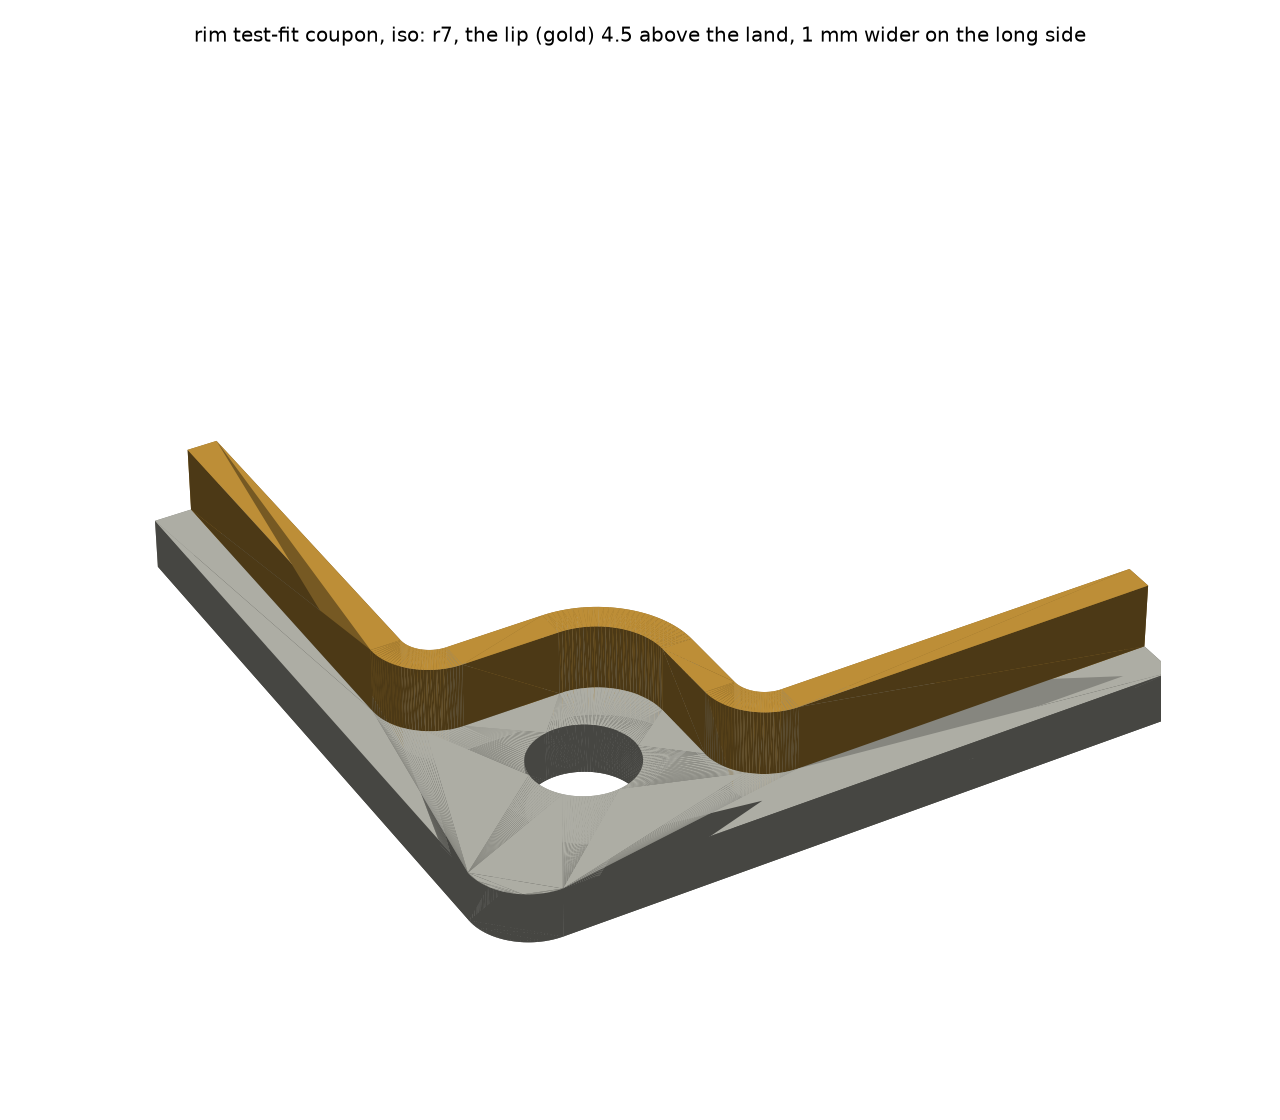
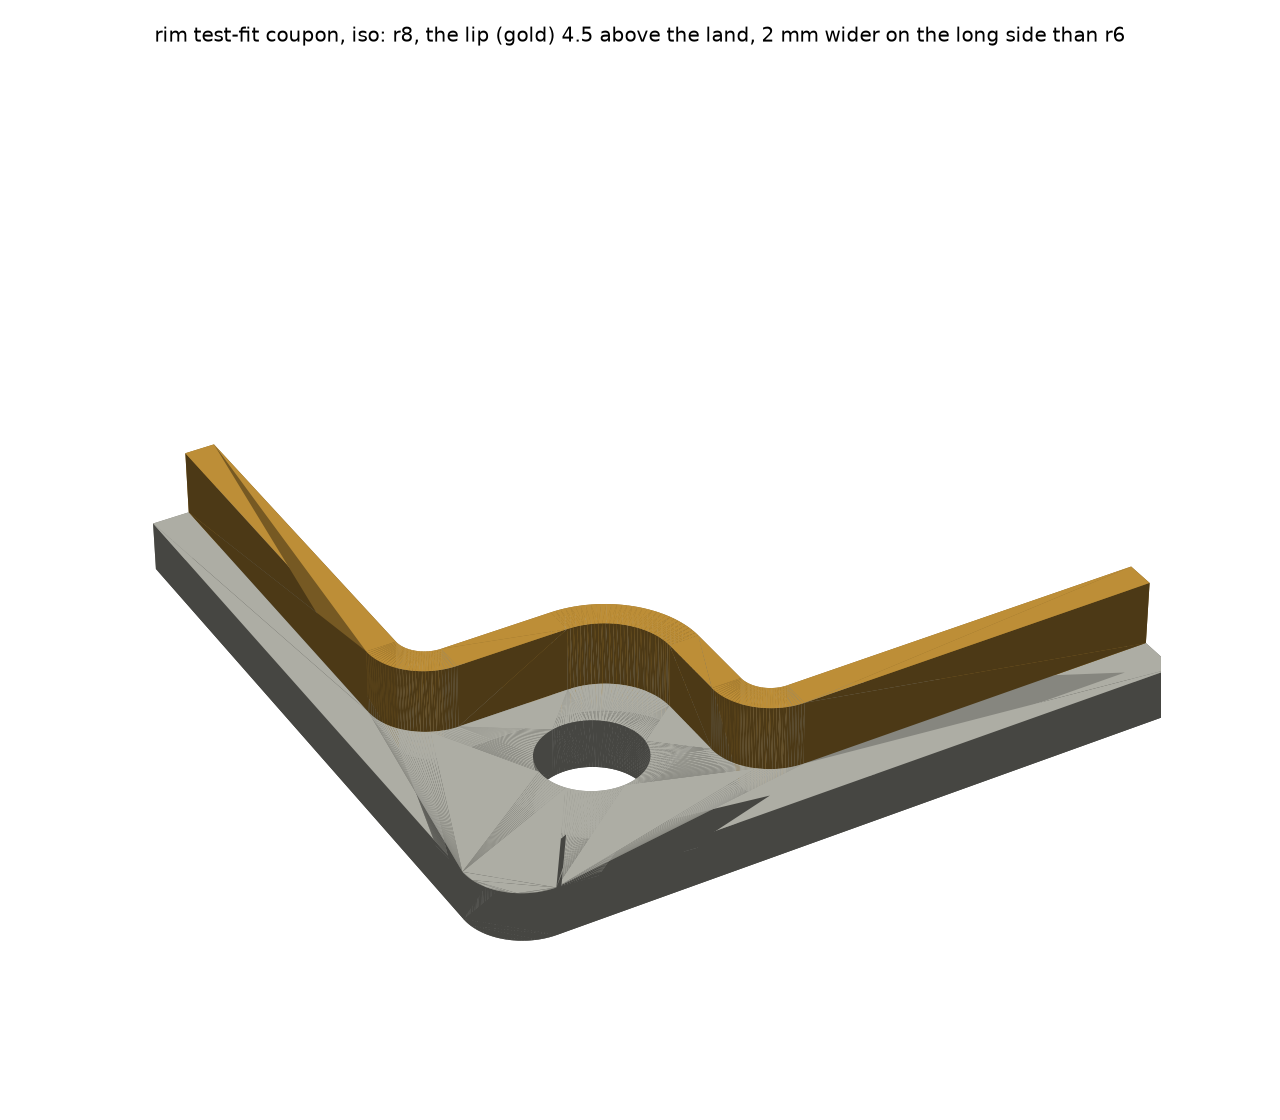
hardware: TX rim test-fit coupon r8, another 1 mm on the long side
From Clint's r7 fit, the long-side edge and its lip move out 1 mm more, 2 mm in all at this
corner. The coupon is 47 x 45, the S's run along the long side is at 19.5 and the hole at
12/10, with 3.0 mm from the lip to the hole. The R3 / R5.5 bends are kept. In the full base
the width stays 130, so the long-side screws sit 12 from the edge and 106 apart across
[TBD-MEASURE]. The insert posts grow to 14.8 and the inside stays 124. The top view ghosts
r7. The gate stays closed.

diff --git a/hardware/tx-stack-r1/sources.py b/hardware/tx-stack-r1/sources.py
@@ -128,14 +128,14 @@ D = {
     "l1_lid_screw": ((8.0, 0.0, 0.0), "L1: the original lid screw: thread diameter, pitch, length (option a, a printed thread to match)", "Clint, 2026-11-10 (photo-8528 rim.jpg and notes, via the coordinator): the original base's corner holes are large moulded threads, about 8 mm (coarse plastic thread in the photo); pitch and length not measured", "TBD"),
     "lid_screw_opt": ("b", "lid screws: (a) a printed thread matching the original screw; (b) M4 stainless screws with washers through the lid's 8 mm holes into M4 heat-set inserts", "layout choice (recommended b: brass inserts survive the lid coming off many times, a printed PETG thread wears; the original screw is not needed)", "derived"),
     "seal_curve_r": ((3.0, 5.5), "radii of the S-curve's bends round each corner boss, on the lip's centre line: the two outer bends (where it leaves the straight legs), the middle bend (round the boss's inner corner); tangent, axis-aligned exits", "photo-8539: outer about R3; Clint's coupon r6 fit, 2026-11-10 (via the coordinator): the middle bend R5.5", "TBD"),
-    "seal_s": ((13.5, 15.0), "the S-curve round each corner boss, lip centre line to lip centre line: the segment along the short side sits this far in from the short-side lip line, the segment along the long side this far in from the long-side lip line", "photo-8539: the middle runs 17.5 from both edges; Clint's coupon r6 fit, 2026-11-10 (via the coordinator): the long-side edge and lip 1 mm further out, so the run along the long side is 18.5 from that edge", "sourced"),
+    "seal_s": ((13.5, 16.0), "the S-curve round each corner boss, lip centre line to lip centre line: the segment along the short side sits this far in from the short-side lip line, the segment along the long side this far in from the long-side lip line", "photo-8539: the middle runs 17.5 from both edges; Clint's coupon r6 fit, 2026-11-10 (via the coordinator): the long-side edge and lip 1 mm further out, and the r7 fit another 1 mm, so the run along the long side is 19.5 from that edge", "sourced"),
     "coupon_bore": (7.0, "the rim coupon's screw hole (the full base keeps the insert's own bore, insert_m4)", "Clint's printed test fit of coupon r1, 2026-11-10 (photo-8533, via the coordinator): 25 % larger than r1's 5.6", "derived"),
     "corner_r_out": (4.0, "the lid's (and the base's) outside corner radius, in plan", "estimated from Clint's photo-8526 at about 13.4 px/mm (about 50 px); measure", "TBD"),
     "coupon_fit": (False, "test-fit coupon (cage.py --coupon): the real lid pressed onto the printed rim corner; the lip in the O-ring along both sides and round the boss's S-curve, the screw hole under the lid's hole", "pending: Clint prints it (about 20 minutes) and fits the lid; set True and sourced when it fits", "TBD"),
     "m4_washer": ((12.0, 1.0), "M4 large (fender) washer, stainless: OD x thickness, for option b, over the lid's 8 mm hole", "ISO 7093-1 size 4 (d2 12, h 1), from the standard's table as remembered: check the ones bought", "TBD"),
     "m4_screw": ((8.0, 3.1, 20.0), "M4 stainless pan-head screw: head diameter, head height, length (option b)", "ISO 7045 M4 head (dk 8, k 3.1), from the standard's table as remembered; length a layout choice: through the lid boss (L1 pending) into the 8 mm insert", "TBD"),
     "lid_pocket": (14.0, "the lid's square corner pocket, inside width (the washer must seat in it); the hole 8 mm through its floor", "pending: Clint's photo-8526 shows a square pocket with a round counterbored hole; width placeholder", "TBD"),
-    "l2_screw_pos": ((10.0, 11.0), "L2: lid screw centre from the outside edges: from the short side, from the long side", "the sheet's 10/10, centred in the lid's boss pocket (photo-8539); Clint's coupon r6 fit, 2026-11-10 (via the coordinator): the long side's edge sits 1 mm further out than r6 had it, so 11 from the long side (the width kept at Clint's tape 130.2, so the screws sit 108 apart across [TBD-MEASURE])", "sourced"),
+    "l2_screw_pos": ((10.0, 12.0), "L2: lid screw centre from the outside edges: from the short side, from the long side", "the sheet's 10/10, centred in the lid's boss pocket (photo-8539); Clint's coupon r6 fit, 2026-11-10 (via the coordinator): the long side's edge sits 1 mm further out than r6 had it, and the r7 fit another 1 mm (2 mm in all at this corner), so 12 from the long side (the width kept at Clint's tape 130.2, so the screws sit 106 apart across [TBD-MEASURE])", "sourced"),
     "l4_oring_proud": (-2.0, "L4: how far the O-ring sits above (+) or below (-) the channel walls", "Clint, 2026-11-10 (lid-measure sheet, via the coordinator): inset about 2 mm below the walls", "sourced"),
     "l5_lid_out": ((175.0, 130.0, 6.0), "L5: lid outside length x width, corner radius (the base matches it; the radius in use is corner_r_out)", "length: Clint, 2026-11-10 (via the coordinator), re-measured 6-14/16 in = 174.6, agreeing with Adafruit's 175 (the earlier 6-3/4 was a misread); width about 130 by Clint's tape (Adafruit 128.5); corner radius a placeholder", "sourced"),
     "base_905": ((175.0, 131.0), "the original #905 base's outside length x width (wider than the lid)", "Adafruit #905 drawing, via the coordinator: base 131 wide against the lid's 128.5", "sourced"),

diff --git a/hardware/tx-stack-r1/cage/coupon_views.py b/hardware/tx-stack-r1/cage/coupon_views.py
@@ -37,7 +37,7 @@ def top(solid):
         ax.plot(*zip(*ln), color="#555", lw=1.2)
     for ln in outline(solid, land_h + cage.TONGUE_H / 2):
         ax.plot(*zip(*ln), color="#b07a10", lw=1.6)
-    # r6's lip and long edge, ghosted in r7's frame; the corner's diagonal through the screw
+    # r7's lip and long edge, ghosted in r8's frame; the corner's diagonal through the screw
     g = dict(cage.COUPON_GHOST)
     old = cage.seal_region(cage.TONGUE_W / 2, 0, 1, **dict(g)).intersect(
         cq.Workplane("XY").rect(cx, cz, centered=False).extrude(1)).cut(cage.seal_region(-cage.TONGUE_W / 2, -1, 3, **dict(g)))
@@ -86,15 +86,15 @@ def top(solid):
     ax.annotate("", (hx, 0), (hx, hz), **kw)
     ax.text(hx + 0.6, hz / 2 - 2.5, f"{hz:g}", va="center", **t)
     ax.text(hx + d / 2 + 0.5, hz + d / 2, f"\u00d8{d:g}", **t)
-    ax.text(0.8, -4.4, f"outside corner R {cage.CORNER_R:g} [TBD-MEASURE]; grey dashed: r6's lip and long edge", **t)
+    ax.text(0.8, -4.4, f"outside corner R {cage.CORNER_R:g} [TBD-MEASURE]; grey dashed: r7's lip and long edge", **t)
     ax.set_aspect("equal")
     ax.set_xlim(-6, cx + 9)
     ax.set_ylim(-6, cz + 4)
     ax.set_xlabel("mm from the lid's outside edge (short side)")
     ax.set_ylabel("mm from the lid's outside edge (long side)")
-    ax.set_title(f"rim test-fit coupon r7, top: {cx:g} x {cz:g} x {ch:g} mm (land {ch - cage.TONGUE_H:g}, lip "
+    ax.set_title(f"rim test-fit coupon r8, top: {cx:g} x {cz:g} x {ch:g} mm (land {ch - cage.TONGUE_H:g}, lip "
                  f"{cage.TONGUE_H:g} above it); hole \u00d8{d:g} at {hx:g}/{hz:g}\nthe S's middle runs at "
-                 f"{cl + run:g} from the long edge, {cs + rise:g} from the short, R{r:g} outer / R{ri:g} middle bends (r6 fit)\nthe hole centred in the lid's boss pocket: "
+                 f"{cl + run:g} from the long edge, {cs + rise:g} from the short, R{r:g} outer / R{ri:g} middle bends (r6 + r7 fits)\nthe hole centred in the lid's boss pocket: "
                  f"{clr:.1f} mm to the lip, {hx - d / 2:g} / {hz - d / 2:g} to the long / short edges", fontsize=9)
     ax.grid(alpha=0.2)
     fig.tight_layout()
@@ -123,7 +123,7 @@ def iso(solid):
     ax.set_box_aspect((cage.COUPON[0], cage.COUPON[1], 12))
     ax.view_init(elev=35, azim=-120)
     ax.set_axis_off()
-    ax.set_title("rim test-fit coupon, iso: r7, the lip (gold) 4.5 above the land, 1 mm wider on the long side", fontsize=9)
+    ax.set_title("rim test-fit coupon, iso: r8, the lip (gold) 4.5 above the land, 2 mm wider on the long side than r6", fontsize=9)
     fig.tight_layout()
     fig.savefig(OUT / "rim-coupon-iso.png", dpi=160)
 

diff --git a/hardware/tx-stack-r1/cage/cage.py b/hardware/tx-stack-r1/cage/cage.py
@@ -321,9 +321,9 @@ def coax(arm):
     return pe, yb, zb, ax
 
 
-COUPON = (46.0, 45.0, 8.0)          # the test-fit coupon (r7): x from the long-side edge, z from the short-side edge: one rim corner, outside footprint x height; at least
+COUPON = (47.0, 45.0, 8.0)          # the test-fit coupon (r8): x from the long-side edge, z from the short-side edge: one rim corner, outside footprint x height; at least
 CORNER_R = S.val("corner_r_out")    #   10 mm of straight lip past each outer bend
-COUPON_GHOST = dict(cs=4.0, cl=4.5, rise=13.5, run=14.0, r=(3.0, 5.0, 3.0))   # r6's lip in r7's frame (its long edge
+COUPON_GHOST = dict(cs=4.0, cl=4.5, rise=13.5, run=15.0, r=(3.0, 5.5, 3.0))   # r7's lip in r8's frame (its long edge
 COUPON_GHOST_EDGE = 1.0                                                        #   1 mm in), ghosted on the drawing
 
 
